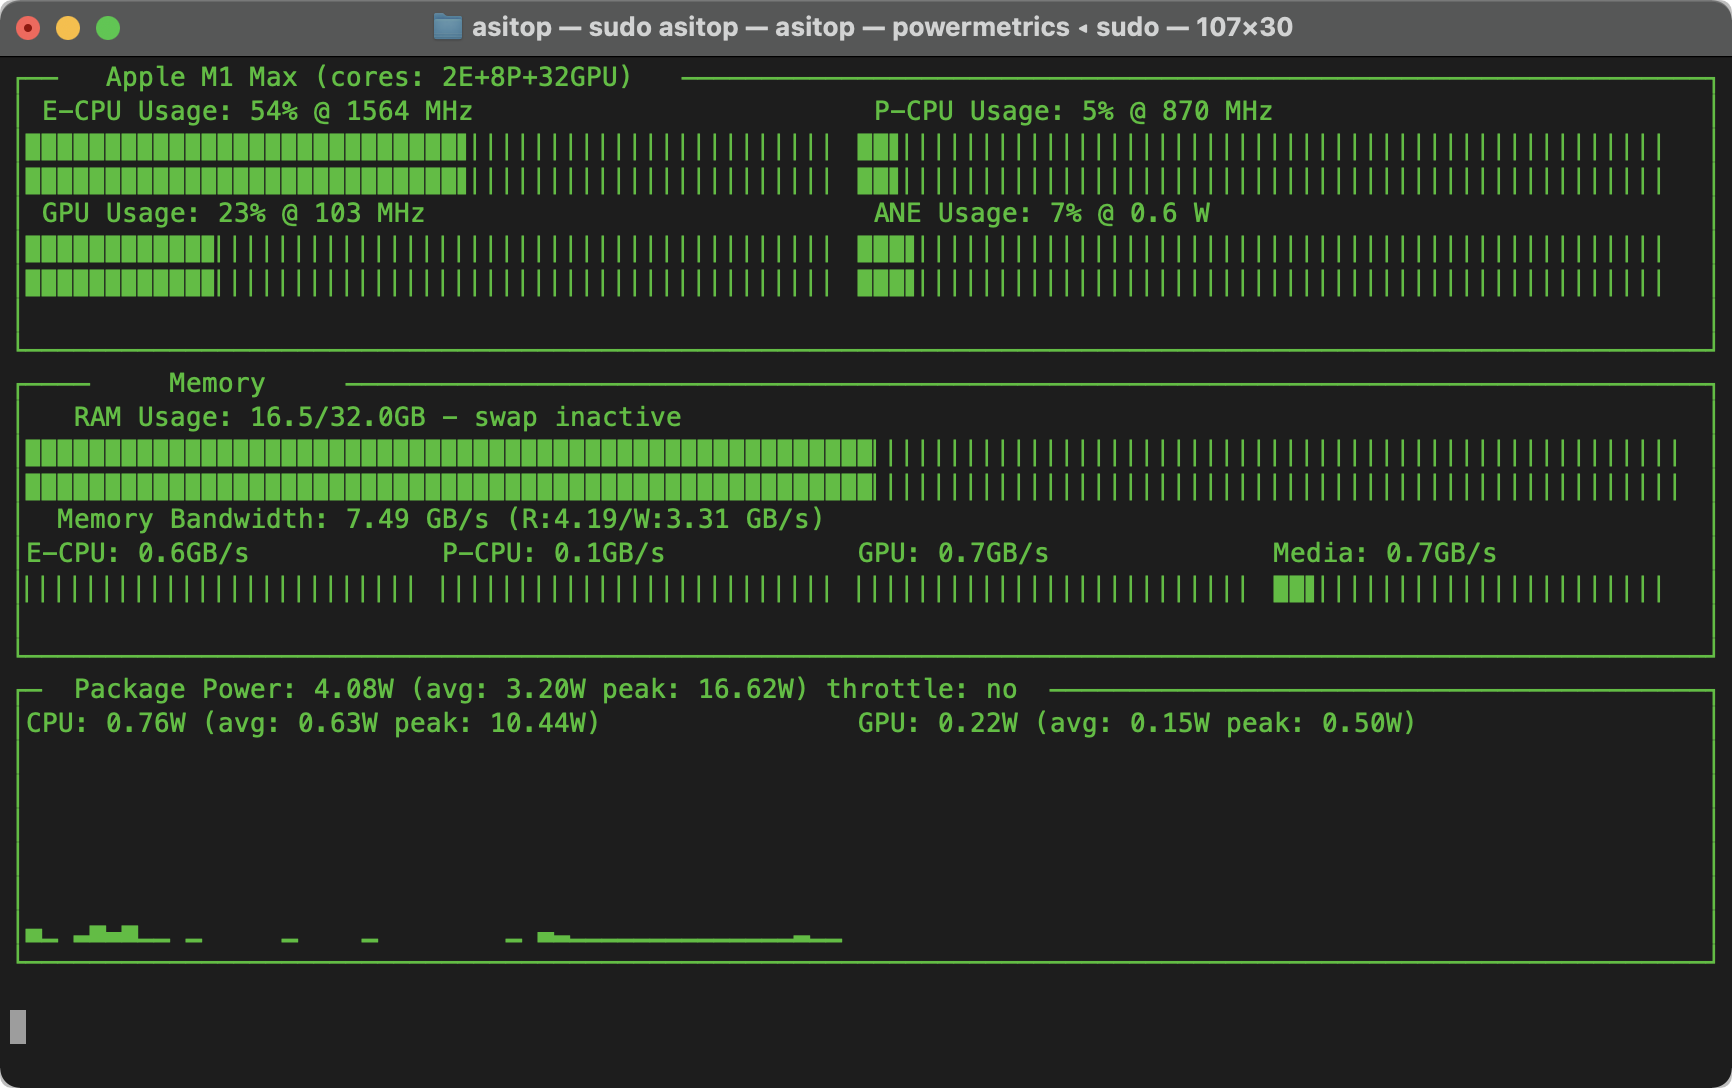
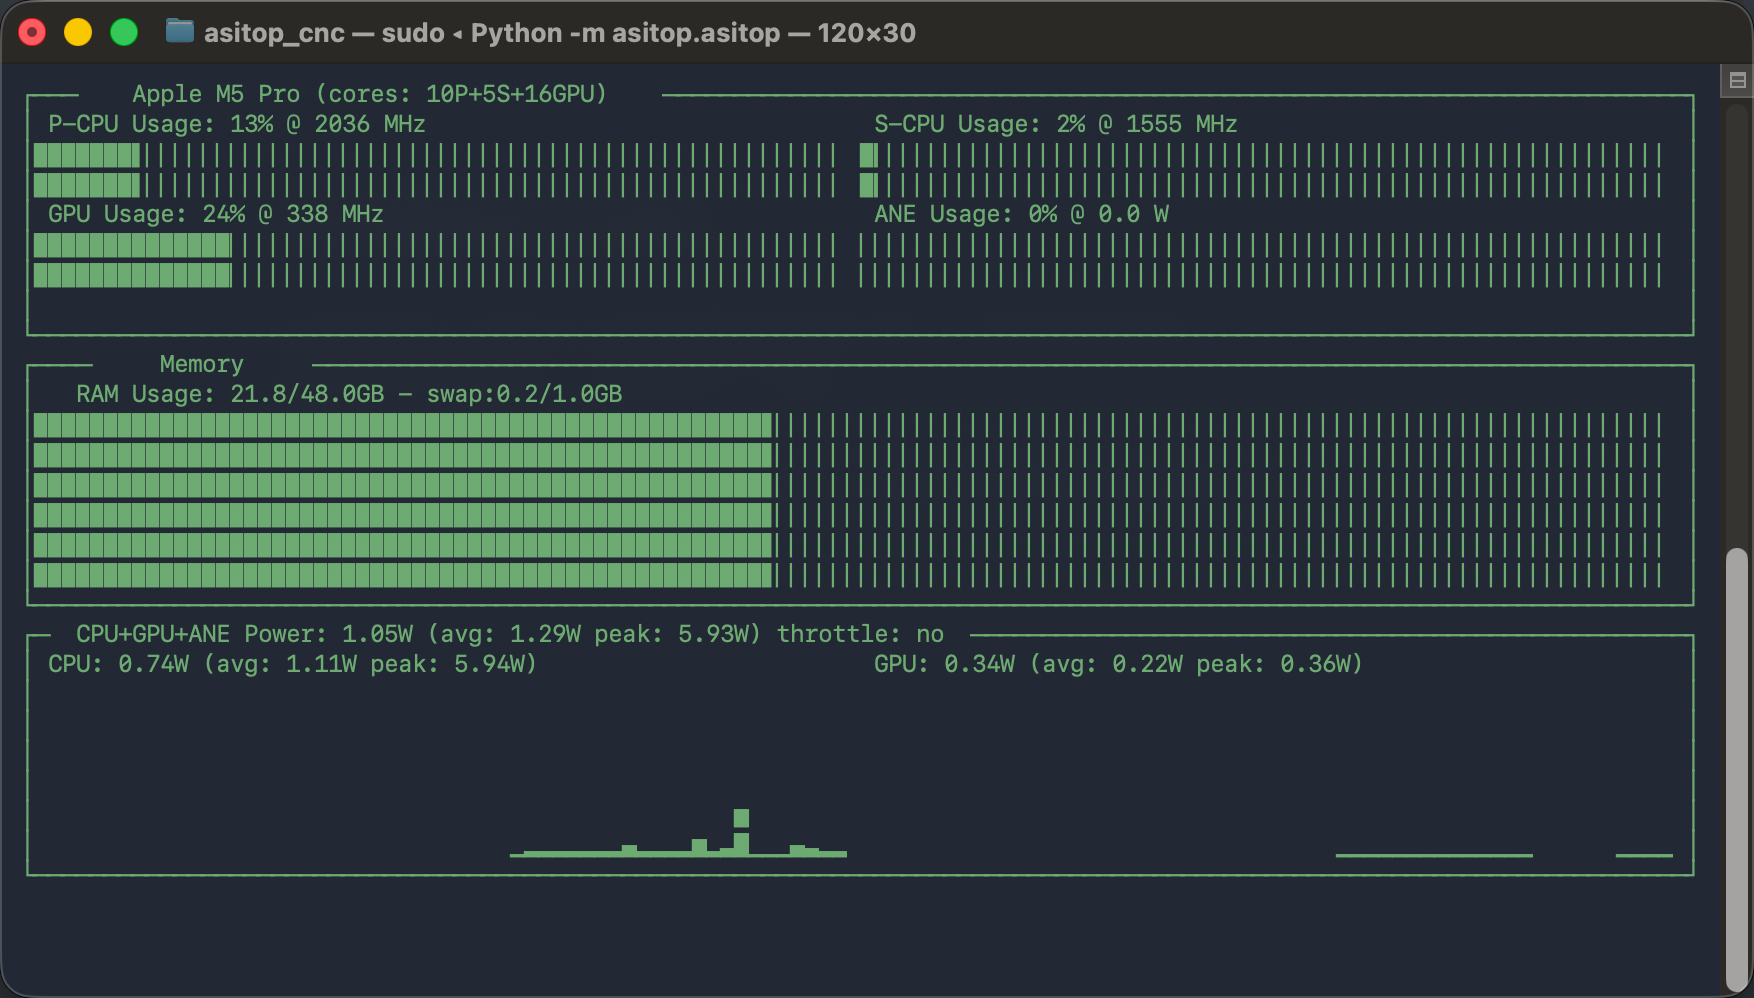
Refresh project documentation
Replace the upstream README with a concise asitop_cnc English summary and add README_CN.md as the Chinese source.

Document the fork's M5 Pro/Max core-name compatibility, stdout powermetrics parsing to avoid disk writes, and per-core usage calculation.

Remove tracked .DS_Store, ignore future .DS_Store files, drop obsolete .whitesource and GIF assets, and update the screenshot image.

diff --git a/README.md b/README.md
@@ -1,89 +1,19 @@
-# asitop
+# asitop_cnc
 
-![PyPI - Downloads](https://img.shields.io/pypi/dm/asitop)
-
-Performance monitoring CLI tool for Apple Silicon
+Forked version of `asitop`. The suffix 'cnc' stands for Core Name Compatible.
 
 ![](images/asitop.png)
 
-```shell
-pip install asitop
-```
+---
 
-## What is `asitop`
+## What is different from the original version?
 
-A Python-based `nvtop`-inspired command line tool for Apple Silicon (aka M1) Macs.
+### Core Name Compatibility
+Apple changed the cores in M5 Pro/Max chips to P cores and S cores, instead of E cores and P cores.
+The original asitop cannot parse this layout, so this version adds compatibility for it.
 
-* Utilization info:
-  * CPU (E-cluster and P-cluster), GPU
-  * Frequency and utilization
-  * ANE utilization (measured by power)
-* Memory info:
-  * RAM and swap, size and usage
-  * (Apple removed memory bandwidth from `powermetrics`)
-* Power info:
-  * CPU power, GPU power (Apple removed package power from `powermetrics`)
-  * Chart for CPU/GPU power
-  * Peak power, rolling average display
+### Optimized Disk Writes
+The original workflow of writing plist data first and then reading it back for parsing has been changed, so long-running sessions no longer consume disk writes.
 
-`asitop` uses the built-in [`powermetrics`](https://www.unix.com/man-page/osx/1/powermetrics/) utility on macOS, which allows access to a variety of hardware performance counters. Note that it requires `sudo` to run due to `powermetrics` needing root access to run. `asitop` is lightweight and has minimal performance impact.
-
-**`asitop` only works on Apple Silicon Macs on macOS Monterey!**
-
-## Installation and Usage
-
-`asitop` is a Python-based command line tool. You need `pip` to download and install `asitop`. macOS already comes with Python, to install `pip`, you can follow an [online guide](https://phoenixnap.com/kb/install-pip-mac). After you install `asitop` via `pip`, you can use it via the Terminal.
-
-```shell
-# to enter password before start
-# this mode is recommended!
-sudo asitop
-
-# it will prompt password on start
-asitop
-
-# advanced options
-asitop [-h] [--interval INTERVAL] [--color COLOR] [--avg AVG]
-optional arguments:
-  -h, --help           show this help message and exit
-  --interval INTERVAL  Display interval and sampling interval for powermetrics (seconds)
-  --color COLOR        Choose display color (0~8)
-  --avg AVG            Interval for averaged values (seconds)
-```
-
-## How it works
-
-`powermetrics` is used to measure the following:
-
-* CPU/GPU utilization via active residency
-* CPU/GPU frequency
-* Package/CPU/GPU/ANE energy consumption
-* CPU/GPU/Media Total memory bandwidth via the DCS (DRAM Command Scheduler)
-
-[`psutil`](https://github.com/giampaolo/psutil) is used to measure the following:
-
-* memory and swap usage
-
-[`sysctl`](https://developer.apple.com/library/archive/documentation/System/Conceptual/ManPages_iPhoneOS/man3/sysctl.3.html) is used to measure the following:
-
-* CPU name
-* CPU core counts
-
-[`system_profiler`](https://ss64.com/osx/system_profiler.html) is used to measure the following:
-
-* GPU core count
-
-Some information is guesstimate and hardcoded as there doesn't seem to be a official source for it on the system:
-
-* CPU/GPU TDP
-* CPU/GPU maximum memory bandwidth
-* ANE max power
-* Media engine max bandwidth
-
-## Why
-
-Because I didn't find something like this online. Also, just curious about stuff.
-
-## Disclaimers
-
-I did this randomly don't blame me if it fried your new MacBook or something.
+### Modified Core Usage Calculation Logic
+Calculates the average active ratio of cores instead of the cluster ratio.

diff --git a/README_CN.md b/README_CN.md
@@ -1,0 +1,19 @@
+# asitop_cnc
+
+Forked version of `asitop`. The suffix 'cnc' stands for Core Name Compatible.
+
+![](images/asitop.png)
+
+---
+
+## 与原版有什么区别？
+
+### 核心名兼容
+Apple将M5 Pro/Max芯片核心更改为P核与S核，不再为E核与P核。
+原版asitop无法解析，此版本进行了兼容。
+
+### 优化硬盘写入
+修改了原版先写plist再读去解析的流程，长时间运行不再消耗硬盘写入。
+
+### 修改核心占用率计算逻辑
+统计核心平均活动ratio而不是簇ratio。